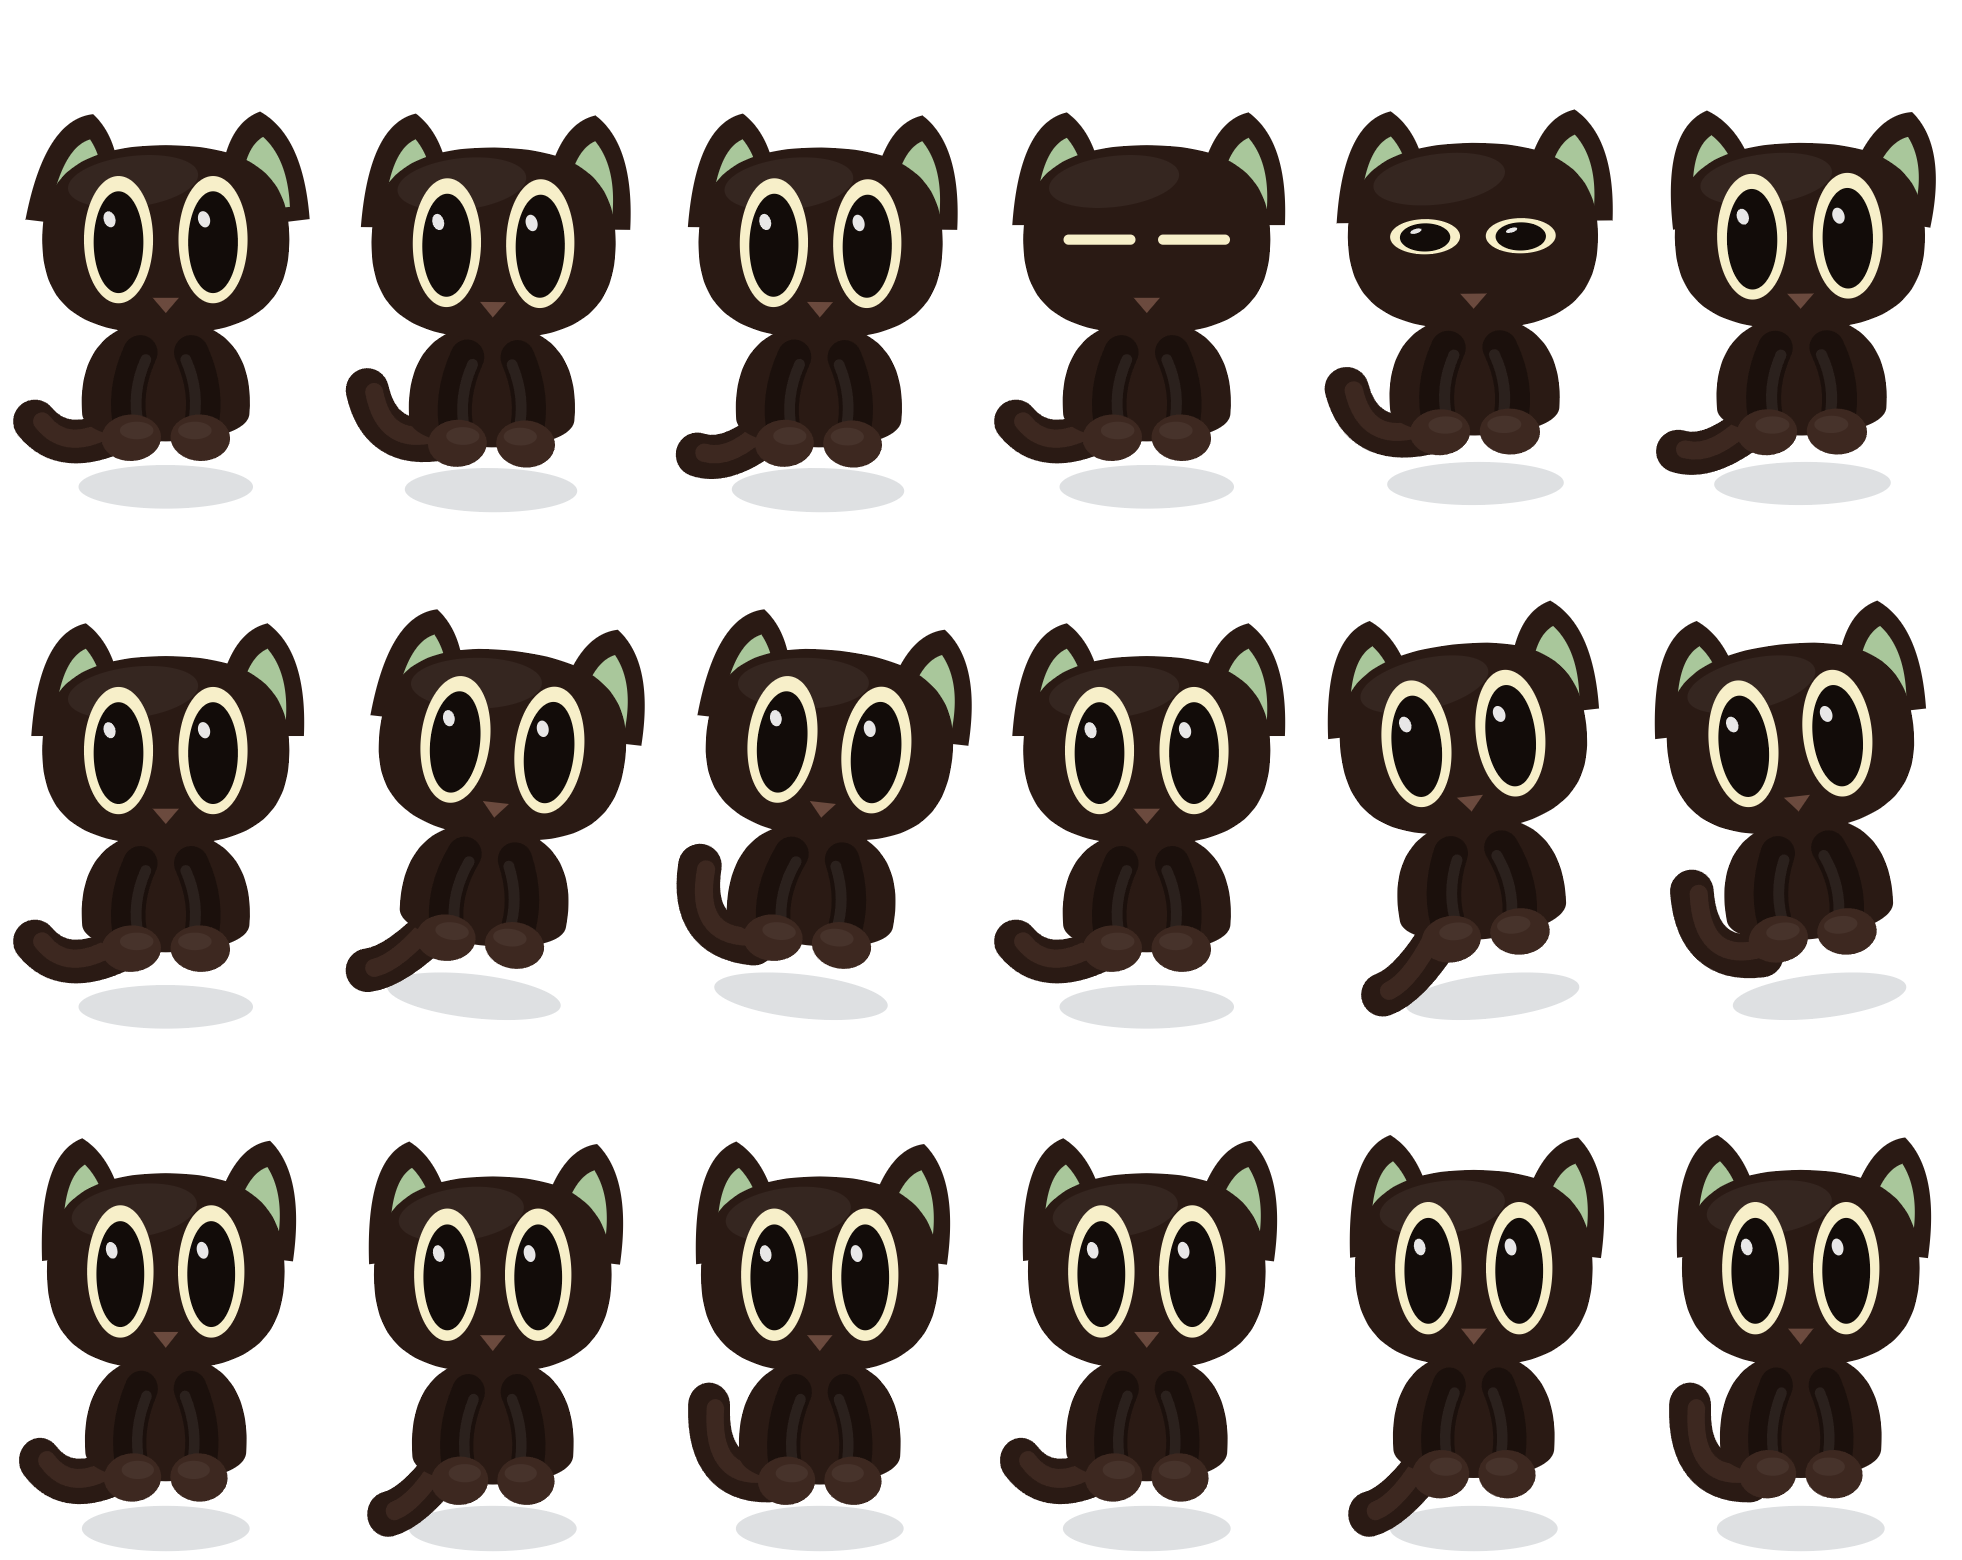
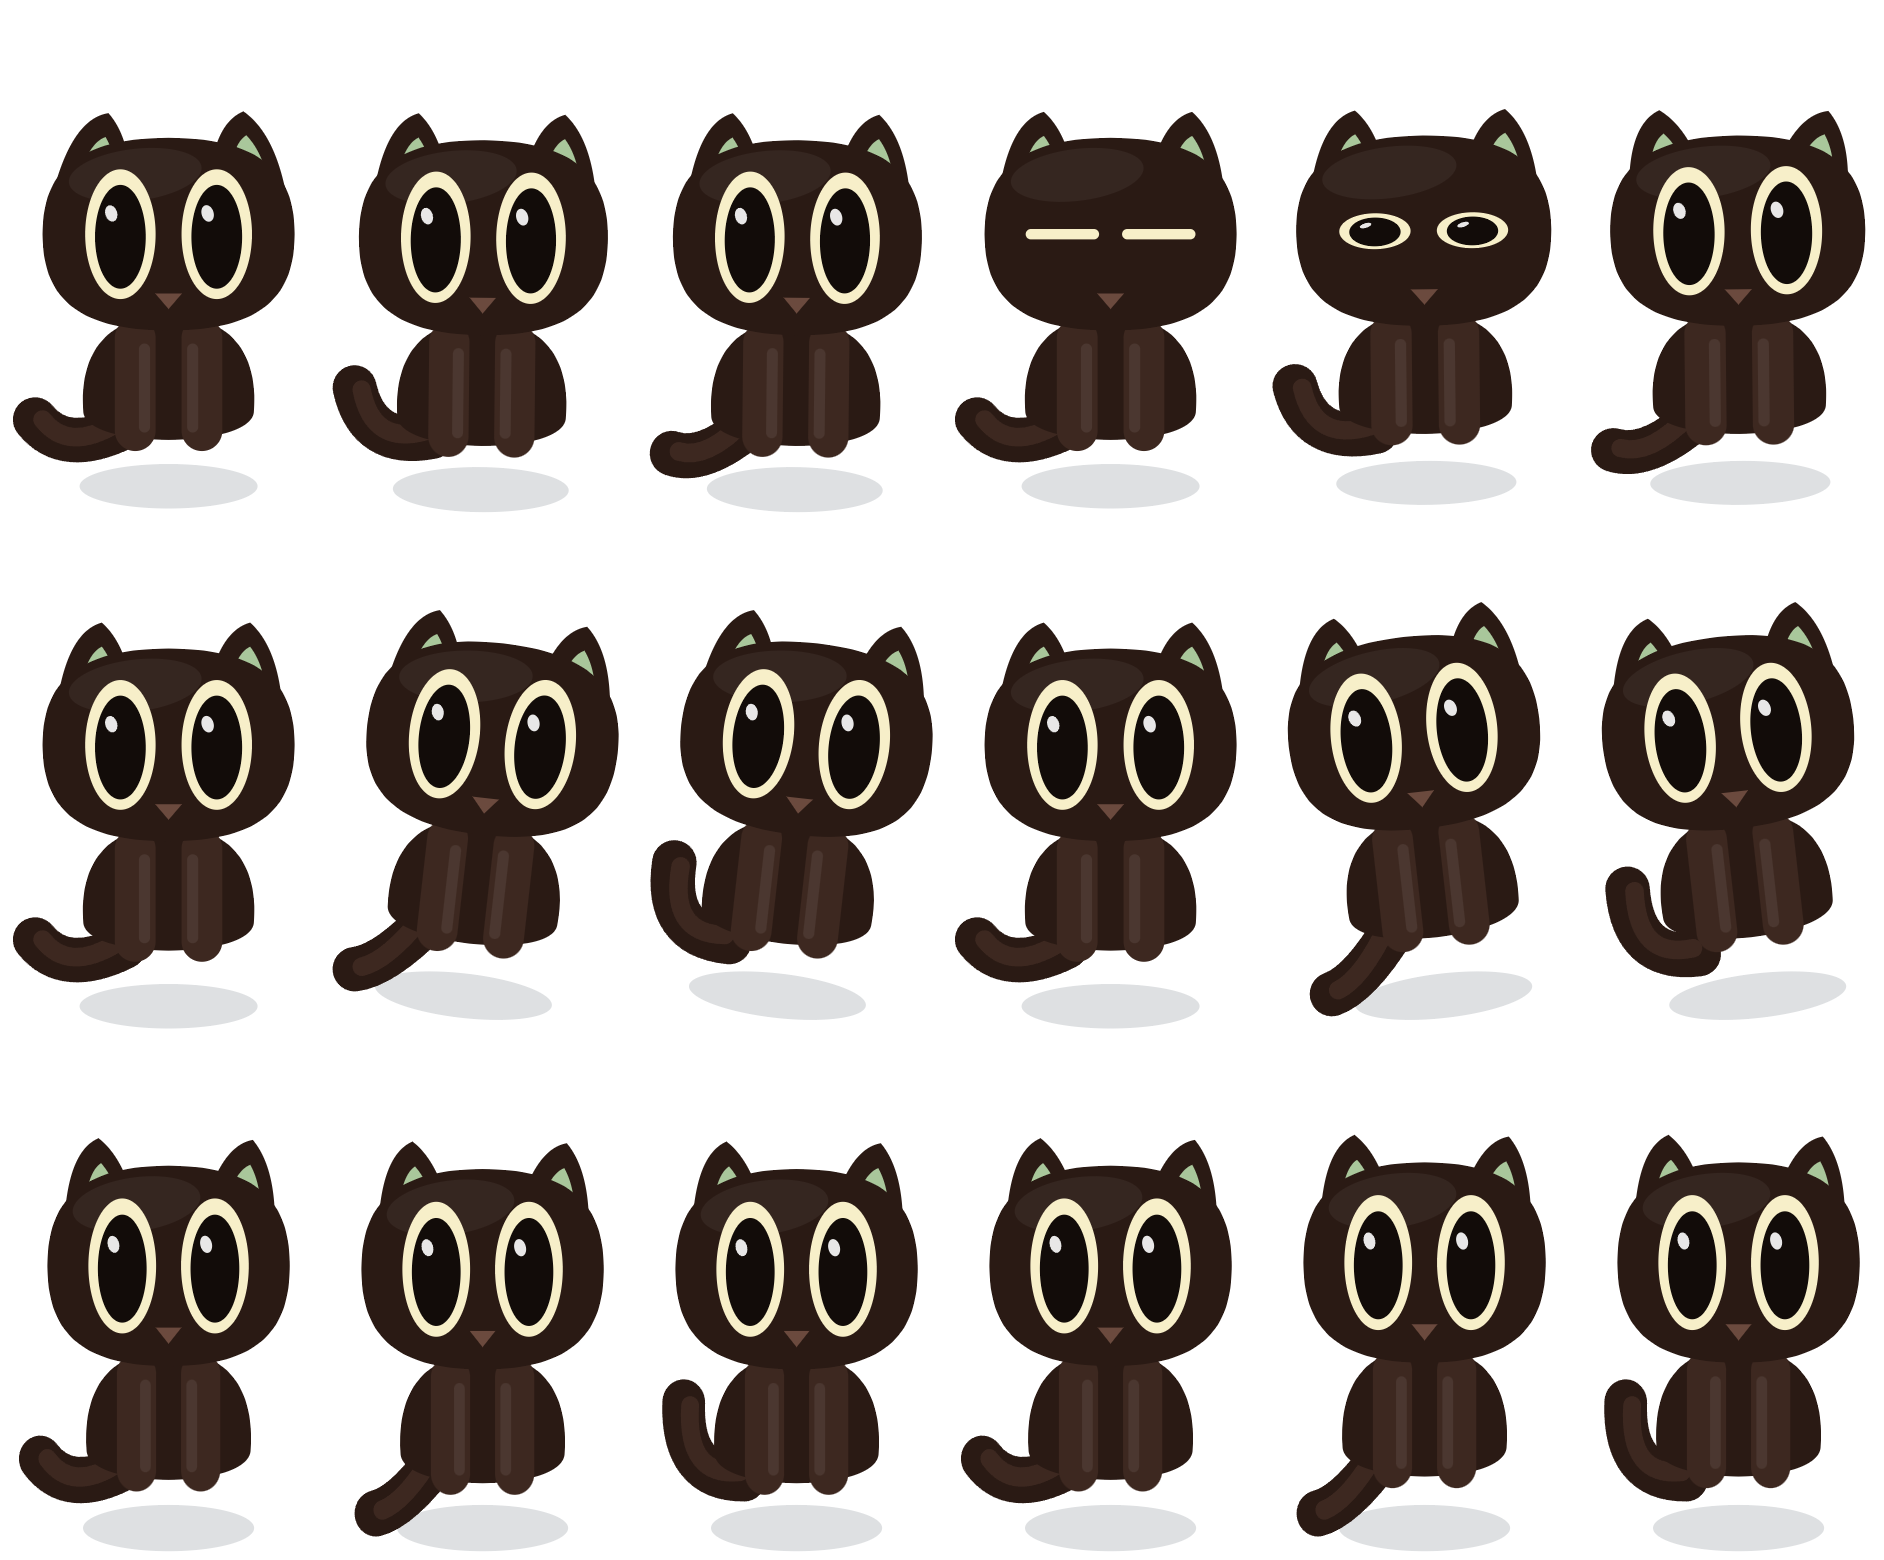
大眼黑猫：耳朵收进脸的轮廓内、前腿改成直管圆头
1) 耳朵原来在 x=±25 处、宽度到 ±39，而脸的半宽只有 34，
   所以耳朵从脸侧边支棱出去，看着像后来贴上去的两块，不连续。
   改成放在 x=±20 并整体收窄，外沿不超过脸的轮廓，
   现在是从脸顶部两角长出来的。

2) 前腿按用户说的改成两条【直的】管子（原来是弯的），
   末端用 lineCap round 圆头封口 —— 圆头本身就是爪子，
   所以去掉了另外画的两个褐色椭圆爪子。
   管身左侧保留一道浅高光做圆柱转折。

diff --git a/build/make-skins.js b/build/make-skins.js
@@ -1877,45 +1877,39 @@ function drawCat(ctx, q, p, kind) {
   ctx.bezierCurveTo(-24, 14, -20, 0, 0, 0);
   ctx.closePath(); ctx.fill();
 
-  /* 前腿：从胸口向下垂到地面的两条深褐色弯管（趴姿能看见前腿） */
+  /* 前腿：从胸口直直垂到地上的两条管子。
+     末端用圆头封口（lineCap round），圆头本身就是爪子，不再另画椭圆。 */
   [-1, 1].forEach(function (sg) {
-    /* 裤管本体 */
-    ctx.strokeStyle = FUR_D; ctx.lineWidth = 9.5; ctx.lineCap = 'round';
+    ctx.strokeStyle = FUR_L; ctx.lineWidth = 11; ctx.lineCap = 'round';
     ctx.beginPath();
-    ctx.moveTo(sg * 7, 9);
-    ctx.quadraticCurveTo(sg * 12, 20, sg * 9.5, 30);
+    ctx.moveTo(sg * 9, 6);
+    ctx.lineTo(sg * 9, 31);
     ctx.stroke();
-    /* 左侧一道浅高光，做出圆柱的转折 */
+    /* 管身左侧一道浅高光，做出圆柱的转折 */
     ctx.strokeStyle = 'rgba(255,255,255,.07)'; ctx.lineWidth = 3;
     ctx.beginPath();
-    ctx.moveTo(sg * 5.5, 11);
-    ctx.quadraticCurveTo(sg * 9.5, 20, sg * 7.5, 29);
+    ctx.moveTo(sg * 6.5, 9);
+    ctx.lineTo(sg * 6.5, 30);
     ctx.stroke();
-    /* 落在地上的爪子 */
-    ctx.fillStyle = FUR_L;
-    ctx.beginPath();
-    ctx.ellipse(sg * 9.5, 32.5, 8.2, 6.4, sg * 0.05, 0, TAU); ctx.fill();
-    ctx.fillStyle = 'rgba(255,255,255,.05)';
-    ctx.beginPath();
-    ctx.ellipse(sg * 9.5 - sg * 1.5, 30.5, 4.6, 2.4, 0, 0, TAU); ctx.fill();
   });
 
   /* ---------- 耳朵（先画，压在头下） ---------- */
   [-1, 1].forEach(function (sg) {
     ctx.save();
-    ctx.translate(sg * 25, -40);
+    ctx.translate(sg * 20, -40);
     ctx.rotate(sg * earTw);
+    /* 耳朵整体往里收，外沿不超过脸的半宽（34），否则会支棱出脸外显得断开 */
     ctx.fillStyle = FUR;
     ctx.beginPath();
-    ctx.moveTo(-12, 14);
-    ctx.quadraticCurveTo(-10, -14, 3, -17);
-    ctx.quadraticCurveTo(14, -9, 13, 14);
+    ctx.moveTo(-11, 15);
+    ctx.quadraticCurveTo(-9, -12, 2, -15);
+    ctx.quadraticCurveTo(11, -7, 11, 15);
     ctx.closePath(); ctx.fill();
     ctx.fillStyle = INNER;
     ctx.beginPath();
-    ctx.moveTo(-5.5, 10);
-    ctx.quadraticCurveTo(-4, -7, 3, -10);
-    ctx.quadraticCurveTo(9, -3, 8, 10);
+    ctx.moveTo(-5, 11);
+    ctx.quadraticCurveTo(-3.5, -6, 2, -8.5);
+    ctx.quadraticCurveTo(7, -2, 6.5, 11);
     ctx.closePath(); ctx.fill();
     ctx.restore();
   });
